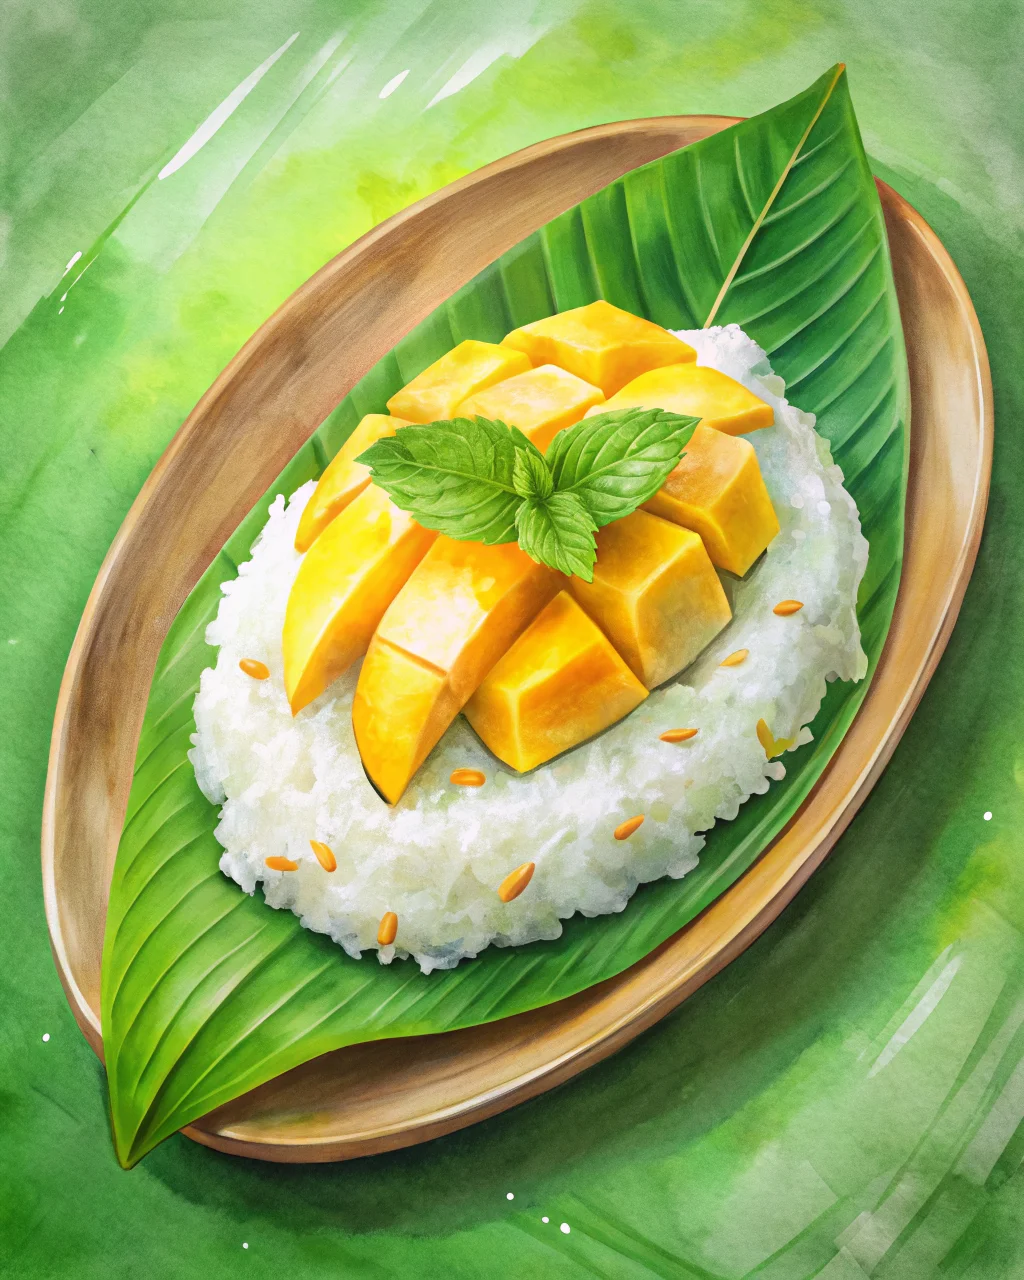
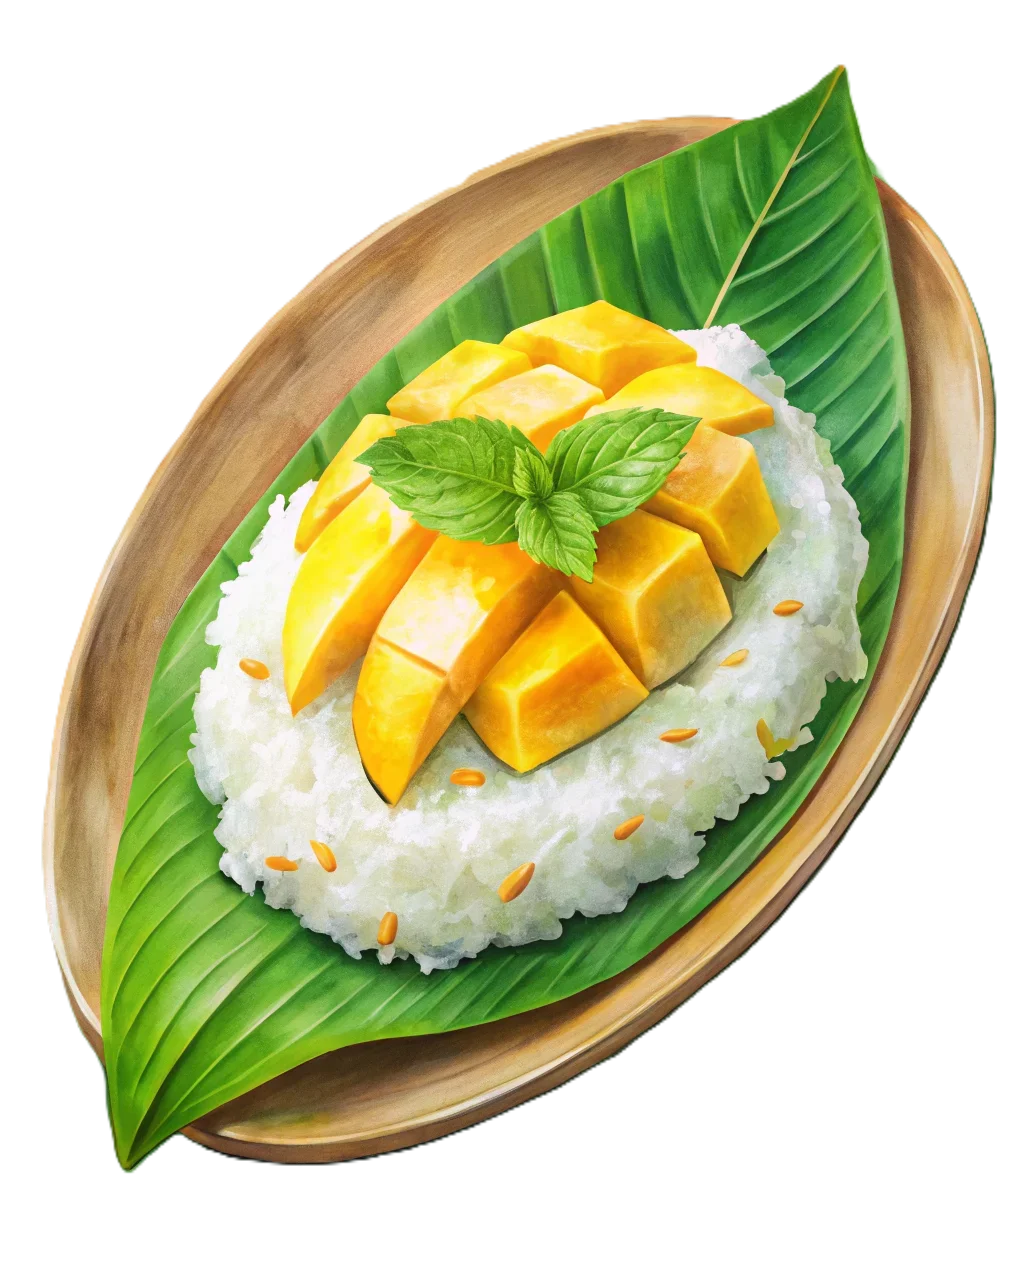
1

diff --git a/assets/tools/app.py b/assets/tools/app.py
@@ -14,7 +14,12 @@ import streamlit as st
 from PIL import Image
 
 import recraft_api
-from rembg import remove as rembg_remove
+from rembg import remove as rembg_remove, new_session as rembg_new_session
+
+@st.cache_resource
+def _get_rembg_session():
+    """起動時に1回だけモデルをロードしてキャッシュ"""
+    return rembg_new_session("isnet-general-use")  # 高精度・中速モデル
 
 # ──────────────────────────────────────────────────────────
 # パス定義
@@ -34,8 +39,13 @@ def _temp_save(item: dict) -> dict:
     """gen_results の1件をディスクに一時保存してtmp_idを付与して返す"""
     tid = item.get("tmp_id") or _uuid.uuid4().hex[:10]
     (TEMP_DIR / f"{tid}.webp").write_bytes(item["bytes"])
-    meta = {k: v for k, v in item.items() if k != "bytes"}
+    # original_bytes がある場合は別ファイルに保存
+    if "original_bytes" in item:
+        (TEMP_DIR / f"{tid}_orig.webp").write_bytes(item["original_bytes"])
+    meta = {k: v for k, v in item.items() if k not in ("bytes", "original_bytes")}
     meta["tmp_id"] = tid
+    if "original_bytes" in item:
+        meta["has_original"] = True
     (TEMP_DIR / f"{tid}.json").write_text(
         json.dumps(meta, ensure_ascii=False), encoding="utf-8")
     return {**item, "tmp_id": tid}
@@ -43,7 +53,7 @@ def _temp_save(item: dict) -> dict:
 
 def _temp_delete(tmp_id: str):
     """一時ファイルを削除"""
-    for ext in (".webp", ".json"):
+    for ext in (".webp", ".json", "_orig.webp"):
         p = TEMP_DIR / f"{tmp_id}{ext}"
         if p.exists():
             p.unlink()
@@ -59,6 +69,10 @@ def _temp_load_all() -> list[dict]:
         try:
             meta  = json.loads(meta_path.read_text(encoding="utf-8"))
             bdata = img_path.read_bytes()
+            # original_bytes の復元
+            orig_path = TEMP_DIR / f"{meta.get('tmp_id', '')}_orig.webp"
+            if orig_path.exists():
+                meta["original_bytes"] = orig_path.read_bytes()
             results.append({**meta, "bytes": bdata})
         except Exception:
             pass
@@ -347,6 +361,7 @@ with tab2:
             st.session_state[key_prompt] = _saved_prompt or sel_item.get("prompt_en", "")
 
         SHAPES = {
+            "指定なし":             "",
             "プレート":             "ceramic plate",
             "ボウル":               "ceramic bowl",
             "深めのボウル":         "deep ceramic bowl",
@@ -396,16 +411,20 @@ with tab2:
                 default_color = jp_c
                 break
 
-        shape_key  = f"gen_shape_{item_key}"
-        color_key  = f"gen_color_{item_key}"
-        _shape_now = st.session_state.get(shape_key, default_shape)
-        _color_now = st.session_state.get(color_key, default_color)
+        shape_key   = f"gen_shape_{item_key}"
+        color_key   = f"gen_color_{item_key}"
+        pattern_key = f"gen_pattern_{item_key}"
+        _shape_now  = st.session_state.get(shape_key, default_shape)
+        _color_now  = st.session_state.get(color_key, default_color)
         if _shape_now not in SHAPES: _shape_now = default_shape
         if _color_now not in COLORS: _color_now = default_color
 
         en_shape        = SHAPES[_shape_now]
         en_color        = COLORS[_color_now]
-        plate_color_val = f"{en_color} {en_shape}".strip() if en_color else en_shape
+        _use_pattern    = st.session_state.get(pattern_key, False)
+        _pattern_str    = " with decorative pattern" if _use_pattern and en_shape else ""
+        plate_color_val = (f"{en_color} {en_shape}{_pattern_str}".strip()
+                           if en_color else f"{en_shape}{_pattern_str}".strip())
         prompt_val      = st.session_state.get(key_prompt, sel_item.get("prompt_en", ""))
         # ページ更新後も復元できるよう last_state に保存
         _p_dict = {**last_state.get("prompts", {}), f"{country_id}_{item_key}": prompt_val}
@@ -419,11 +438,14 @@ with tab2:
                 with st.spinner("背景除去中（ローカル処理）..."):
                     try:
                         _res      = _results[_bg_i]
-                        bg_bytes  = rembg_remove(_res["bytes"])
+                        bg_bytes  = rembg_remove(_res["bytes"], session=_get_rembg_session())
                         new_bytes = to_webp(bg_bytes)
                         new_list  = list(_results)
-                        new_list[_bg_i] = _temp_save({**_res, "bytes": new_bytes})
+                        # 元画像をoriginal_bytesとして保持
+                        orig = _res.get("original_bytes") or _res["bytes"]
+                        new_list[_bg_i] = _temp_save({**_res, "bytes": new_bytes, "original_bytes": orig})
                         st.session_state["gen_results"] = new_list
+                        st.rerun()
                     except Exception as e:
                         st.error(f"背景除去失敗: {e}")
 
@@ -448,7 +470,7 @@ with tab2:
                         cr_str = f"消費: {res['credits']}cr" if res.get("credits") else ""
                         st.caption(f"#{i+1}　{cr_str}")
                         st.image(res["bytes"], use_container_width=True)
-                        b1, b2, b3 = st.columns(3)
+                        b1, b2, b3, b4 = st.columns(4)
                         with b1:
                             if st.button("💾 保存", key=f"save_{i}", type="primary"):
                                 name    = res.get("name", sel_item.get("name", "output"))
@@ -479,6 +501,15 @@ with tab2:
                                 _temp_delete(res.get("tmp_id", ""))
                                 st.session_state["gen_results"] = [r for j, r in enumerate(results) if j != i]
                                 st.rerun()
+                        with b4:
+                            if res.get("original_bytes"):
+                                if st.button("↩", key=f"undo_{i}", help="背景除去を元に戻す"):
+                                    _restored = {k: v for k, v in res.items() if k not in ("original_bytes", "has_original")}
+                                    _restored["bytes"] = res["original_bytes"]
+                                    _new_list = list(results)
+                                    _new_list[i] = _temp_save(_restored)
+                                    st.session_state["gen_results"] = _new_list
+                                    st.rerun()
             else:
                 existing_path = ROOT_DIR / country_id / sel_item.get("image", "")
                 if existing_path.exists() and sel_item.get("image"):
@@ -512,11 +543,11 @@ with tab2:
             angle_prefix = ANGLES[angle_sel]
             use_style_key = f"gen_style_{item_key}"
             use_style_val = st.toggle(
-                "スタイルID を使用（オフ＝アングル指示が通りやすい）",
+                "スタイルID を使用（オフ＝背景色・アングル指示が通りやすい）",
                 value=True,
                 key=use_style_key,
             )
-            sc1, sc2 = st.columns(2)
+            sc1, sc2, sc3 = st.columns([2, 2, 1])
             with sc1:
                 st.selectbox(
                     "皿の形状",
@@ -531,6 +562,8 @@ with tab2:
                     index=list(COLORS.keys()).index(_color_now),
                     key=color_key,
                 )
+            with sc3:
+                st.toggle("柄あり", key=pattern_key)
             st.markdown(
                 f"<p style='font-size:1.1em;font-weight:600;color:#444;margin:2px 0 8px;'>"
                 f"→ {plate_color_val}</p>",
@@ -539,20 +572,21 @@ with tab2:
             model_val = st.radio(
                 "モデル",
                 [
-                    "🎨 水彩20b  22cr ≈ ¥3.5/枚",
                     "recraft20b  22cr ≈ ¥3.5/枚",
                     "recraftv3   40cr ≈ ¥6.4/枚",
                 ],
                 horizontal=True,
             )
-            if "水彩20b" in model_val:
-                model_key_r = "watercolor20b"
-            elif "recraft20b" in model_val:
+            if "recraft20b" in model_val:
                 model_key_r = "recraft20b"
             else:
                 model_key_r = "recraftv3"
             _base        = (angle_prefix + " " + prompt_val).strip() if angle_prefix else prompt_val
-            final_prompt = _base + ", pure solid bright green background, chroma key green background, isolated on green"
+            _blue_plates = {"light blue", "blue", "navy"}
+            _bg_suffix   = (", pure solid white background, isolated on white"
+                            if en_color in _blue_plates
+                            else ", pure solid light blue background, isolated on light blue")
+            final_prompt = _base + _bg_suffix
             if angle_prefix:
                 st.caption(f"📤 先頭付与: `{angle_prefix[:60]}…`")
             gen_btn = st.button("🎨 生成実行", type="primary", disabled=not prompt_val.strip())
@@ -598,11 +632,14 @@ with tab2:
                 with st.spinner("背景除去中（ローカル処理）..."):
                     try:
                         _res      = _results[_bg_i]
-                        bg_bytes  = rembg_remove(_res["bytes"])
+                        bg_bytes  = rembg_remove(_res["bytes"], session=_get_rembg_session())
                         new_bytes = to_webp(bg_bytes)
                         new_list  = list(_results)
-                        new_list[_bg_i] = _temp_save({**_res, "bytes": new_bytes})
+                        # 元画像をoriginal_bytesとして保持
+                        orig = _res.get("original_bytes") or _res["bytes"]
+                        new_list[_bg_i] = _temp_save({**_res, "bytes": new_bytes, "original_bytes": orig})
                         st.session_state["gen_results"] = new_list
+                        st.rerun()
                     except Exception as e:
                         st.error(f"背景除去失敗: {e}")
 
@@ -626,7 +663,7 @@ with tab2:
                     with img_cols[i % ncols]:
                         st.caption(f"#{i+1}　消費: {res.get('credits', 0)}cr")
                         st.image(res["bytes"], use_container_width=True)
-                        b1, b2, b3 = st.columns(3)
+                        b1, b2, b3, b4 = st.columns(4)
                         with b1:
                             if st.button("💾 保存", key=f"hero_save_{i}", type="primary"):
                                 hero_dir = ROOT_DIR / country_id / "素材"
@@ -650,6 +687,15 @@ with tab2:
                                 _temp_delete(res.get("tmp_id", ""))
                                 st.session_state["gen_results"] = [r for j, r in enumerate(results) if j != i]
                                 st.rerun()
+                        with b4:
+                            if res.get("original_bytes"):
+                                if st.button("↩", key=f"hero_undo_{i}", help="背景除去を元に戻す"):
+                                    _restored = {k: v for k, v in res.items() if k not in ("original_bytes", "has_original")}
+                                    _restored["bytes"] = res["original_bytes"]
+                                    _new_list = list(results)
+                                    _new_list[i] = _temp_save(_restored)
+                                    st.session_state["gen_results"] = _new_list
+                                    st.rerun()
             else:
                 hero_path = ROOT_DIR / country_id / data.get("hero_image", "NOEXIST")
                 if hero_path.exists():
@@ -670,16 +716,13 @@ with tab2:
             hero_model_val = st.radio(
                 "モデル",
                 [
-                    "🎨 水彩20b  22cr ≈ ¥3.5/枚",
                     "recraft20b  22cr ≈ ¥3.5/枚",
                     "recraftv3   40cr ≈ ¥6.4/枚",
                 ],
                 horizontal=True,
                 key="hero_model",
             )
-            if "水彩20b" in hero_model_val:
-                hero_model_key = "watercolor20b"
-            elif "recraft20b" in hero_model_val:
+            if "recraft20b" in hero_model_val:
                 hero_model_key = "recraft20b"
             else:
                 hero_model_key = "recraftv3"
@@ -741,11 +784,14 @@ with tab2:
                     with st.spinner("背景除去中（ローカル処理）..."):
                         try:
                             _res      = _results[_bg_i]
-                            bg_bytes  = rembg_remove(_res["bytes"])
+                            bg_bytes  = rembg_remove(_res["bytes"], session=_get_rembg_session())
                             new_bytes = to_webp(bg_bytes)
                             new_list  = list(_results)
-                            new_list[_bg_i] = _temp_save({**_res, "bytes": new_bytes})
+                            # 元画像をoriginal_bytesとして保持
+                            orig = _res.get("original_bytes") or _res["bytes"]
+                            new_list[_bg_i] = _temp_save({**_res, "bytes": new_bytes, "original_bytes": orig})
                             st.session_state["gen_results"] = new_list
+                            st.rerun()
                         except Exception as e:
                             st.error(f"背景除去失敗: {e}")
 
@@ -769,7 +815,7 @@ with tab2:
                         with img_cols[i % ncols]:
                             st.caption(f"#{i+1}　消費: {res.get('credits', 0)}cr")
                             st.image(res["bytes"], use_container_width=True)
-                            b1, b2, b3 = st.columns(3)
+                            b1, b2, b3, b4 = st.columns(4)
                             with b1:
                                 if st.button("💾 保存", key=f"city_save_{i}", type="primary"):
                                     city_img_dir = ROOT_DIR / country_id / "素材" / "都市"
@@ -795,6 +841,15 @@ with tab2:
                                     _temp_delete(res.get("tmp_id", ""))
                                     st.session_state["gen_results"] = [r for j, r in enumerate(results) if j != i]
                                     st.rerun()
+                            with b4:
+                                if res.get("original_bytes"):
+                                    if st.button("↩", key=f"city_undo_{i}", help="背景除去を元に戻す"):
+                                        _restored = {k: v for k, v in res.items() if k not in ("original_bytes", "has_original")}
+                                        _restored["bytes"] = res["original_bytes"]
+                                        _new_list = list(results)
+                                        _new_list[i] = _temp_save(_restored)
+                                        st.session_state["gen_results"] = _new_list
+                                        st.rerun()
                 else:
                     city_img      = sel_city.get("city_image", "")
                     city_img_path = (ROOT_DIR / country_id / city_img) if city_img else None
@@ -817,16 +872,13 @@ with tab2:
                 city_model_val = st.radio(
                     "モデル",
                     [
-                        "🎨 水彩20b  22cr ≈ ¥3.5/枚",
                         "recraft20b  22cr ≈ ¥3.5/枚",
                         "recraftv3   40cr ≈ ¥6.4/枚",
                     ],
                     horizontal=True,
                     key="city_model",
                 )
-                if "水彩20b" in city_model_val:
-                    city_model_key = "watercolor20b"
-                elif "recraft20b" in city_model_val:
+                if "recraft20b" in city_model_val:
                     city_model_key = "recraft20b"
                 else:
                     city_model_key = "recraftv3"
@@ -886,7 +938,7 @@ with tab3:
                     if st.button("✂", key=f"{del_key_prefix}bg_{fpath.name}", help="背景除去"):
                         with st.spinner("処理中（ローカル処理）..."):
                             try:
-                                bg_bytes   = rembg_remove(fpath.read_bytes())
+                                bg_bytes   = rembg_remove(fpath.read_bytes(), session=_get_rembg_session())
                                 webp_bytes = to_webp(bg_bytes)
                                 new_path   = fpath.with_suffix(".webp")
                                 new_path.write_bytes(webp_bytes)
